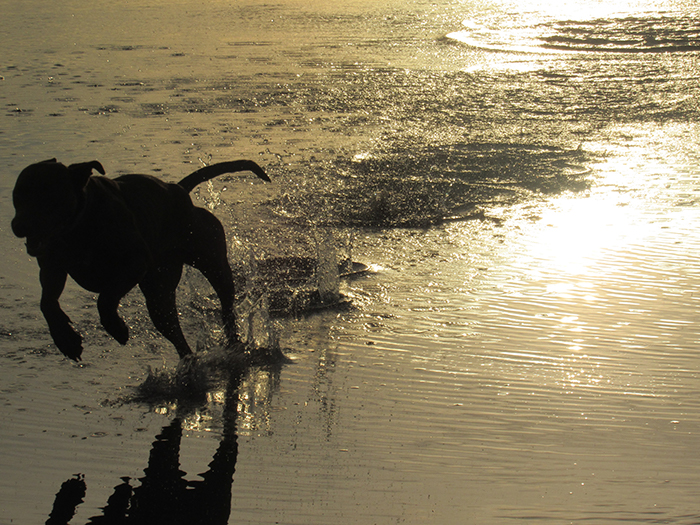
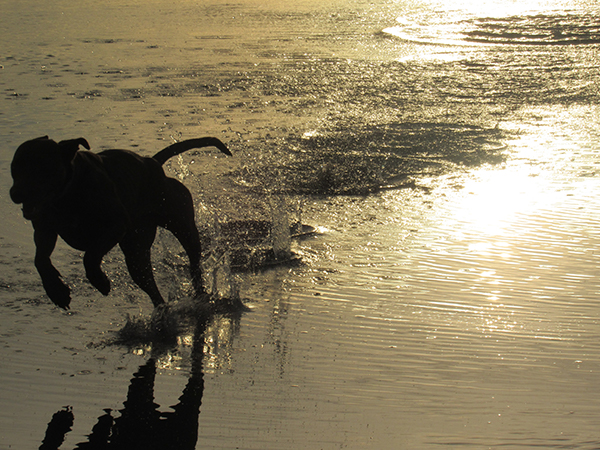
changes

diff --git a/index.html b/index.html
@@ -4,24 +4,24 @@
 </head>
 <link rel="stylesheet" type="text/css" href="styles.css">
 <body>
-<h1>Work Samples</h1>
+<h1><center>ART 103 ASSIGNMENT</center></h1>
+<h1><center>Work Samples</center></h1>
 <div class="gallery">
-<a target="_blank" href="ruin.jpg">
-<img src="ruin.jpg" alt="painted word sculpture" width="550px" height="413px"></img>
+<a target="_blank" href="tile1-project1.jpg">
+<img src="tile1-project1.jpg" alt="sunflower pictures" width="300px" height="300px"></img>
 </a>
-<div class="desc"><h2><i>Ruin</i></h2></div>
+<div class="desc"><a href="first-project.html">PROJECT ONE</a></div>
 </div>
 <div class="gallery">
-<a target="_blank" href="fear.jpg">
-<img src="fear.jpg" alt="girl in front of mirror with camara" width="436px" height="792px"></img>
+<a target="_blank" href="tile2-project2.jpg">
+<img src="tile2-project2.jpg" alt="leaf drawing" width="300px" height="300px"></img>
 </a>
-<div class="desc"><h2><i>Facing Your Fear</i></h2></div>
+<div class="desc"><a href="second-project.html">PROJECT TWO</a></div>
 </div>
 <div class="gallery">
-<a target="_blank" href="amber.jpg">
-<img src="amber.jpg" alt="dog running on beach" width="700px" height="525px"></img>
+<a target="_blank" href="tile3-project3.jpg">
+<img src="tile3-project3.jpg" alt="dog running on beach" width="300px" height="300px"></img>
 </a>
-<div class="desc"><h2><i>Splash</i><div>This is a photography piece which was a stroke of luck.  My dog was running on an Oregon beach and she was loving the water.  After many attempts, I just so happened to capture the golden moment (No pun intended).</h2></div>
-</div>
+<div class="desc"><a href="third-project.html">PROJECT THREE</a></div>
 </body>
 </html>

diff --git a/styles.css b/styles.css
@@ -1,13 +1,14 @@
 html, body {
   margin: 0;
   padding: 0;
+  background-color: rgb(248, 238, 177);
 }
 div.gallery {
   margin: 5px;
   border: 1px solid #ccc;
   float: left;
-  width: 800px;
-  background-color: white;
+  width: 300px;
+  background-color: rgb(255, 255, 255);
 }
 
 div.gallery:hover{
@@ -15,14 +16,14 @@ div.gallery:hover{
 }
 
 div.gallery img{
-  width: 100%;
-  height: auto;
+  width: 300px;
+  height: 300px;
 }
 
 div.desc{
-  padding: 20px;
-  text-align: center;
-  fill: white;
+  padding: 10px;
+  text-align: left;
+  fill: rgb(100, 100, 100);
   }
 
 h1 {
@@ -30,22 +31,21 @@ h1 {
 	font-style: normal;
 	font-family: sans-serif;
 	font-size: 35px;
-	text-align: center;
 }
 
-h2 {
-		font-weight: bold;
-		font-style: normal;
-		font-family: sans-serif;
-		font-size: 30px;
-		text-align: center;
+h2{
+  font-weight: normal;
+  font-style: normal;
+  font-family: sans-serif;
+  font-size: 30px;
+  color: rgb(0, 0, 0);
 }
 
-h3 {
-	font-weight: bold;
-	font-style: normal;
+a {
+  font-style: normal;
+  font-weight: normal;
 	font-family: sans-serif;
-	font-size: 25px;
+	font-size: 30px;
 	text-align: center;
 }
 
@@ -53,6 +53,12 @@ p {
 	font-weight: normal;
 	font-style: normal;
 	font-family: sans-serif;
-	font-size: 20px;
+	font-size: 25px;
 	text-align: justify;
+}
+a {
+  font-style: normal;
+  font-weight: normal;
+  font-family: sans-serif;
+  font-size: 20px;
 }

diff --git a/third-project.html b/third-project.html
@@ -1,0 +1,18 @@
+<!DOCTYPE html><html>
+<head>
+<title>PROJECT 3</title>
+</head>
+<link rel="stylesheet" type="text/css" href="styles.css">
+<body>
+<h2><center>
+<a href="index.html">HOMEPAGE</a>
+<a href="first-project.html">PROJECT ONE</a>
+<a href="second-project.html">PROJECT TWO</a>
+<a href="third-project.html">PROJECT THREE</a>
+</center></h2>
+<h1><center>PROJECT THREE</center></h1>
+<img src="amber.jpg" alt="dog running on beach" class="600px; 450px"></img>
+<h1><i>Splash</i></h1>
+<p><i>Splash</i> is a personal piece and action shot which I consider a stroke of luck.  It was taken a few years ago, during a family trip to the Oregon Coast. My dog, Amber, was enjoying the opportunity to run on the beach and I felt like this was a good time to get some pictures.  After many failed shots, I just so happened to get this picture of her which perfectly captures many elements; such as vivid light, patterns of spashing water, and a silhouette of my dog.</p>
+</body>
+</html>

diff --git a/first-project.html b/first-project.html
@@ -1,0 +1,19 @@
+<!DOCTYPE html><html>
+<head>
+<title>PROJECT 1</title>
+</head>
+<link rel="stylesheet" type="text/css" href="styles.css">
+<body>
+<h2><center>
+<a href="index.html">HOMEPAGE</a>
+<a href="first-project.html">PROJECT ONE</a>
+<a href="second-project.html">PROJECT TWO</a>
+<a href="third-project.html">PROJECT THREE</a>
+</center></h2>
+<h1><center>PROJECT ONE</center></h1>
+<img src="fear.jpg" alt="image of sunflowers" class="413px; 750px"></img>
+<h1><i>Facing Your Fears</i></h1><div>
+<p><i>Facing Your Fears</i> is a project which is extremely personal since I created it at a time when many major changes were happening for me; such as the unexpected death of my grandpa and an accident which made my dad temporarily unable to walk.   This project addresses several of my major fears- such as change, loss, and commitment to a project- which I was experiencing during this time.</p>
+</div>
+</body>
+</html>

diff --git a/second-project.html b/second-project.html
@@ -1,0 +1,20 @@
+<!DOCTYPE html><html>
+<head>
+<title>PROJECT 2</title>
+</head><link rel="stylesheet" type="text/css" href="styles.css">
+<body>
+<h2><center>
+<a href="index.html">HOMEPAGE</a>
+<a href="first-project.html">PROJECT ONE</a>
+<a href="second-project.html">PROJECT TWO</a>
+<a href="third-project.html">PROJECT THREE</a>
+</center></h2>
+<h1><center>PROJECT TWO</center></h1>
+<img src="sketch1.jpg" alt="sketch of tree" class="450px; 600px"></img>
+<img src="sketch2.jpg" alt="sketch of leaf" class="450px; 600px"></img>
+<div>
+<h1><i>Native Plants Assignment</i></h1>
+</div>
+<p><i>Native Plants Assignment</i> was a project which required my ARTH 193A class to go out in nature and draw ten of California's native plants.  I decided to include these drawings since I feel like they were the best at capturing the plants in their true forms.</p>
+</body>
+</html>
